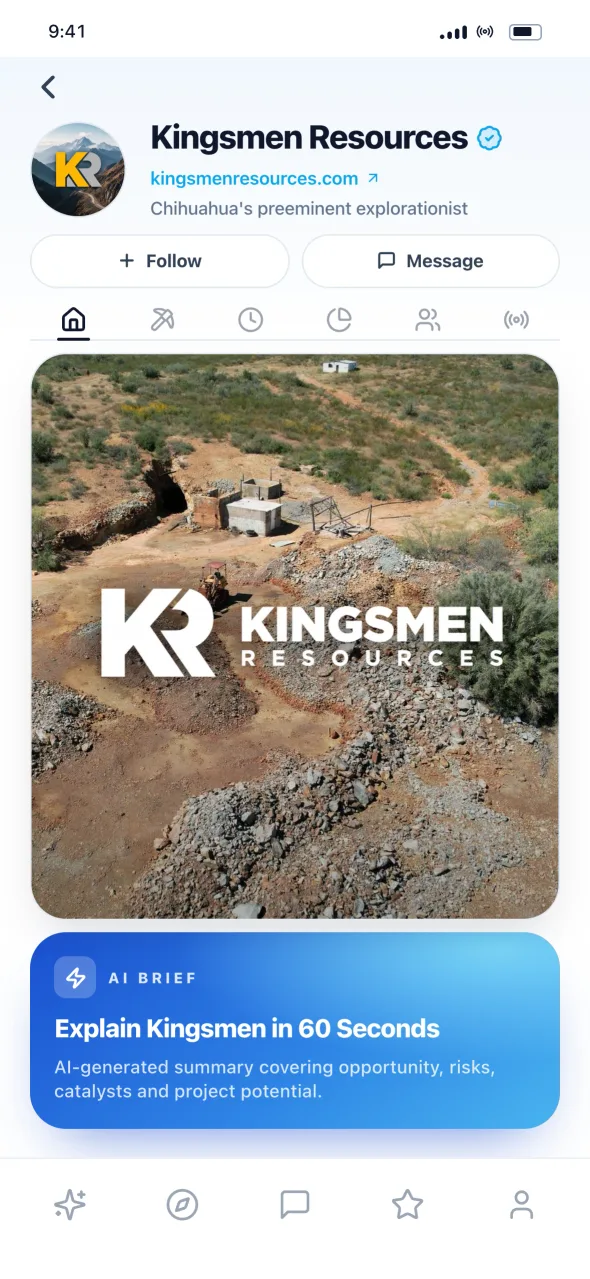
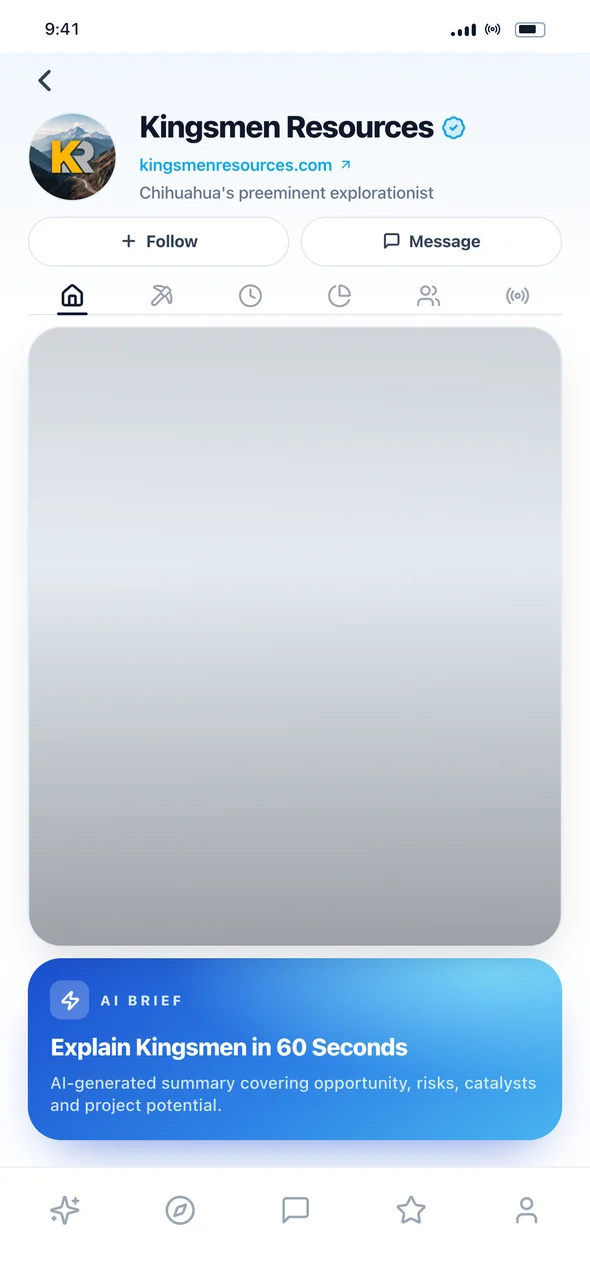
Demo: stop the walkthrough crashing the tab, and make the opening seamless
The reported recording carries Safari own crash banner -- "This webpage was
reloaded because a problem occurred" -- so the grey screen was not a loading state
at all, it was the tab being killed and reloaded. Measured across the walkthrough,
peak decoded imagery is 98.4MB and 78.9MB of it lands in ONE step: the PROJECTS
beat, where the gallery loads 1500px photographs into ~140px thumbnails inside a
phone that is itself scaled to 0.42.

IMAGE MEMORY. The embed now reads Supabase renditions instead of the originals.
Nothing stored is touched -- they are rendered on demand -- and the production app
never takes this path, since it is gated on the embed parameter the real app does
not set. resize=contain inside a 560 box keeps each aspect ratio and crops nothing:
verified, a 1500x1125 source returns 560x420, 1.333 either way. Width alone does
NOT and must not be used -- it returns 560x1125 and distorts the picture. 560 is
above the ~487 device pixels the largest full-bleed slot here can resolve, so what
reaches the screen is unchanged. Per image 6.44MB decoded becomes 0.90MB and 139KB
on the wire becomes 34KB.

PREPARE BEFORE REVEAL. The cover lifted when the FIRST image on the opening screen
was ready, which with a card that now opens blank meant the visitor got a grey card
sitting there while its photograph was still arriving. It now waits for every image
on that screen, so the entrance begins into a card that is ready and the only blank
frame is the app own deliberate one.
[…]

diff --git a/src/aiBrief/PassportProto.jsx b/src/aiBrief/PassportProto.jsx
@@ -167,7 +167,44 @@ function TypeIn({ text, speed = 16 }) {
 }
 
 // Live company data injected from Supabase before mount; falls back to the built-in reference data.
-const _PP = (typeof window !== "undefined" && window.__PP__) || {};
+// ── EMBED ONLY — serve the marketing walkthrough resized renditions of the company media.
+//
+// Measured on the device, the walkthrough peaked at 98.4MB of DECODED bitmaps and 78.9MB of
+// that arrived in ONE step, the PROJECTS beat, where this gallery loads 1500px photographs
+// into ~140px thumbnails inside a phone that is itself scaled to 0.42. iOS answered by
+// killing the tab: the reported recording carries Safari's own "This webpage was reloaded
+// because a problem occurred" banner. This is that fix.
+//
+// Supabase renders the renditions on demand, so NOTHING stored is touched or altered, and
+// the production app never takes this path — it is gated on the embed parameter, which the
+// real app does not set. `resize=contain` inside a 560 box keeps each image's own aspect
+// ratio and crops nothing (verified: a 1500x1125 source returns 560x420, 1.333 either way);
+// width alone does NOT, it returns 560x1125 and distorts. 560 is above the ~487 device
+// pixels the largest full-bleed slot can resolve here, so quality is unchanged on screen.
+// Per image: 6.44MB decoded becomes 0.90MB, and 139KB on the wire becomes 34KB.
+const EMBED_MEDIA = (() => {
+  try { return new URLSearchParams(window.location.search).has("embed"); } catch (_) { return false; }
+})();
+const RENDITION_BOX = 560;
+const toRendition = (u) => (
+  typeof u === "string" && u.includes("/storage/v1/object/public/") && !u.includes("/render/image/")
+    ? u.replace("/storage/v1/object/public/", "/storage/v1/render/image/public/")
+       + (u.includes("?") ? "&" : "?") + `width=${RENDITION_BOX}&height=${RENDITION_BOX}&resize=contain&quality=80`
+    : u
+);
+const withRenditions = (node, depth = 0) => {
+  if (depth > 12) return node;
+  if (typeof node === "string") return toRendition(node);
+  if (Array.isArray(node)) return node.map((v) => withRenditions(v, depth + 1));
+  if (node && typeof node === "object") {
+    const out = {};
+    for (const k of Object.keys(node)) out[k] = withRenditions(node[k], depth + 1);
+    return out;
+  }
+  return node;
+};
+const _PP_RAW = (typeof window !== "undefined" && window.__PP__) || {};
+const _PP = EMBED_MEDIA ? withRenditions(_PP_RAW) : _PP_RAW;
 // Account plan tier (free/basic/pro) — gates how much of the profile investors see. Free
 // renders the compact BasicListing (pp.TIER==="listing"); BASIC = Overview + Timeline only;
 // PRO (or unknown, so existing companies are unaffected) = the full tabbed profile.

diff --git a/src/marketing/demo/DirectedEmbed.jsx b/src/marketing/demo/DirectedEmbed.jsx
@@ -427,8 +427,14 @@ export function DirectedEmbed({ variant = "full", hardware = false, cutout = fal
         // Reveal only once the profile is mounted AND its hero image has decoded (or a
         // safety cap), then wait two frames so the paint has actually flushed — so the
         // phone is revealed already fully drawn, never mid-paint.
-        const hero = page && page.querySelector("img");
-        const heroReady = !hero || (hero.complete && hero.naturalWidth > 0);
+        // PREPARE before REVEAL. This used to check only the FIRST image on the page, so the
+        // cover came off while the card's own photograph and logo were still arriving — and
+        // because the card now opens blank, what the visitor got was a grey card sitting
+        // there for seconds before anything faded in. Every image on the opening screen must
+        // be loaded AND decodable before the device is shown, so the entrance starts into a
+        // card that is ready and the only blank is the app's own deliberate first frame.
+        const imgs = page ? Array.from(page.querySelectorAll("img")) : [];
+        const heroReady = imgs.length === 0 || imgs.every((i) => i.complete && i.naturalWidth > 0);
         if (page && (heroReady || performance.now() - t0 > 2500)) {
           requestAnimationFrame(() => requestAnimationFrame(reveal));
           return;
